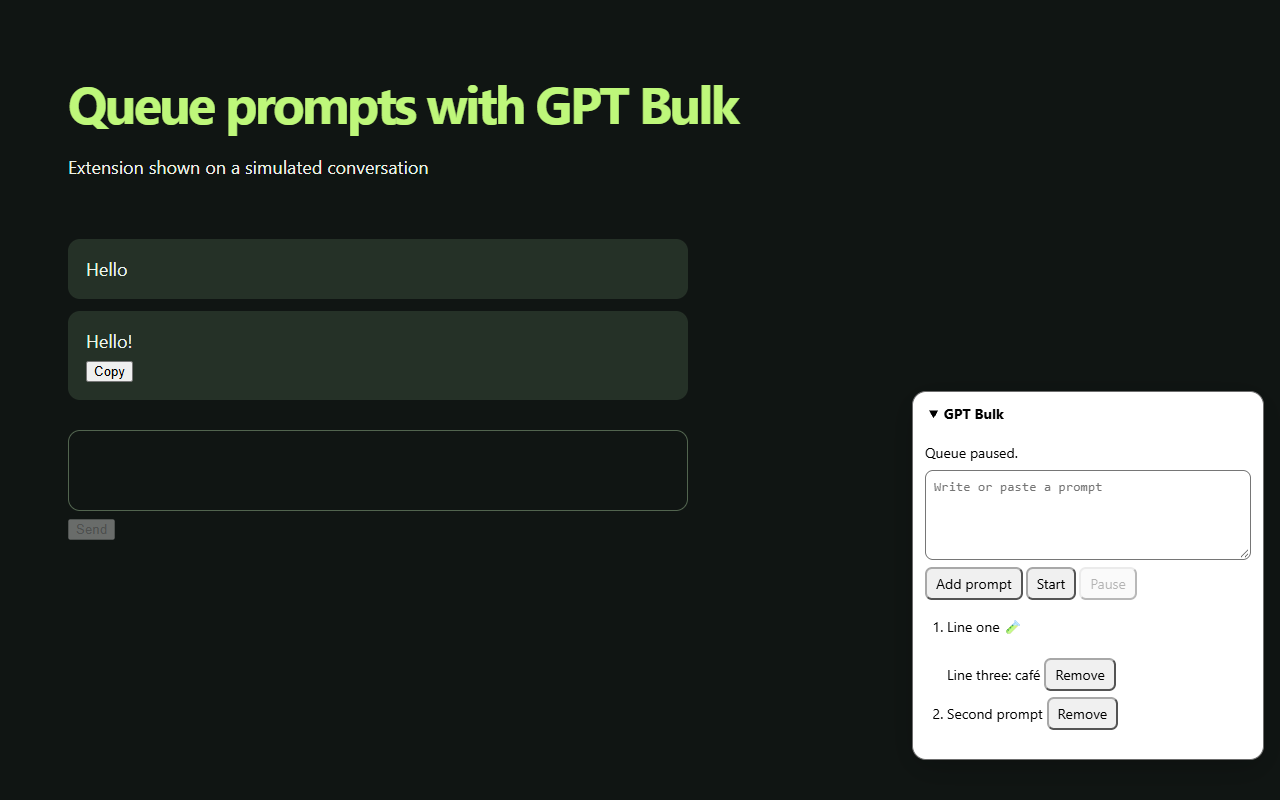
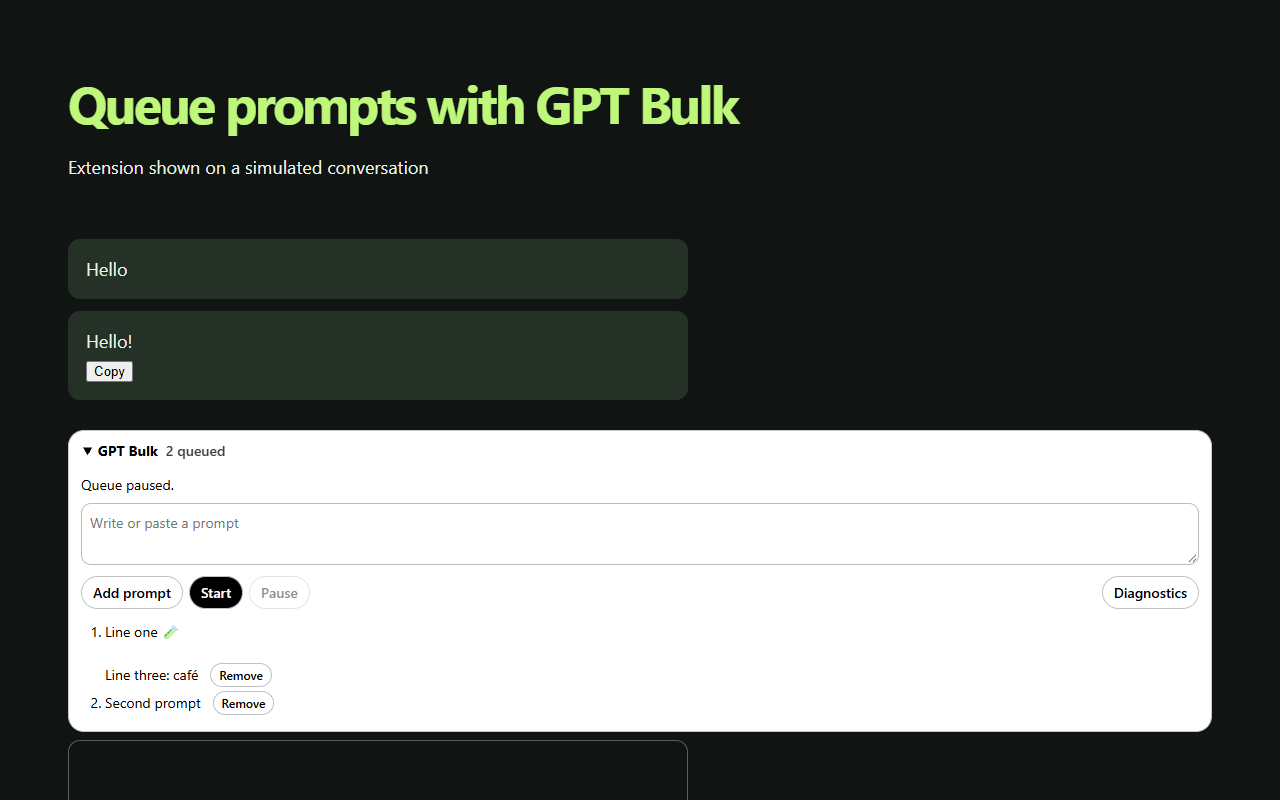
Dock GPT Bulk by the composer and recover unknown reply states

Changed region(s): [[0.0312, 0.4688, 1.0, 0.9688], [0.75, 0.7812, 0.7812, 0.8125]]

diff --git a/content.js b/content.js
@@ -76,8 +76,8 @@
     const attachments = form && (shown('[data-testid*="attachment-preview"], [data-testid*="file-preview"], button[aria-label^="Remove file"], button[aria-label^="Remove attachment"]', form).length ||
       [...form.querySelectorAll('input[type="file"]')].some(node => node.files?.length));
     return {
-      editor, send, user: user?.node, userId: user?.id, assistantId: turn && assistant.id,
-      replyText: finalActions ? assistant.node.textContent : "",
+      editor, form, send, user: user?.node, userId: user?.id, assistantId: turn && assistant.id,
+      replyText: turn ? assistant.node.textContent : "",
       done: Boolean(editor && form && user && finalActions && !busy && !problem),
       finalActions, turnCount: messages.length,
       waitingFor: !editor || !form ? "the ChatGPT message composer" :
@@ -90,28 +90,43 @@
   const panel = host.attachShadow({mode: "open"});
   panel.innerHTML = `
     <style>
-      :host{all:initial;position:fixed;right:16px;bottom:40px;z-index:2147483647;color-scheme:light dark;font:14px system-ui}
-      .queue-panel{width:min(350px,calc(100vw - 32px));background:Canvas;color:CanvasText;border:1px solid GrayText;border-radius:14px;box-shadow:0 8px 30px #0003}
-      .queue-panel:not([open]){width:max-content} summary{cursor:pointer;padding:12px 16px;font-weight:700}
-      section{padding:0 12px 12px} textarea{box-sizing:border-box;width:100%;min-height:90px;resize:vertical;border-radius:8px;padding:8px}
-      button{font:inherit;cursor:pointer;border-radius:7px;padding:5px 9px;margin:3px 3px 3px 0}
-      ol{padding-left:22px;max-height:190px;overflow:auto} li{white-space:pre-wrap;overflow-wrap:anywhere} p{margin:8px 0}
+      :host{all:initial;position:fixed;right:16px;bottom:40px;z-index:2147483647;color-scheme:light dark;font:14px/1.5 system-ui;color:CanvasText}
+      :host([data-inline]){position:relative;inset:auto;z-index:auto;display:block;width:100%;min-width:0;margin:0 0 8px}
+      .queue-panel{width:min(410px,calc(100vw - 32px));box-sizing:border-box;background:Canvas;border:1px solid color-mix(in srgb, CanvasText 22%, Canvas);border-radius:16px;box-shadow:0 8px 24px #0002}
+      :host([data-inline]) .queue-panel{width:100%;box-shadow:none}
+      .queue-panel:not([open]){width:max-content} summary{cursor:pointer;padding:9px 14px;font-weight:700}
+      #count{font-weight:500;opacity:.75;margin-left:8px} section{padding:0 12px 12px}
+      textarea{font:inherit;box-sizing:border-box;width:100%;min-height:62px;resize:vertical;border:1px solid color-mix(in srgb, CanvasText 26%, Canvas);border-radius:10px;padding:8px;background:Canvas;color:CanvasText}
+      button{font:inherit;font-weight:600;cursor:pointer;border:1px solid color-mix(in srgb, CanvasText 24%, Canvas);border-radius:999px;padding:5px 11px;background:Canvas;color:CanvasText}
+      button:disabled{opacity:.45;cursor:default} button:focus-visible,summary:focus-visible,textarea:focus-visible{outline:2px solid #538ce7;outline-offset:2px}
+      #start{background:CanvasText;color:Canvas} #confirm{margin:7px 0} #diagnostics{margin-left:auto}
+      .actions{display:flex;align-items:center;gap:6px;flex-wrap:wrap;margin:6px 0} ol{margin:8px 0 0;padding-left:24px;max-height:108px;overflow:auto}
+      li{white-space:pre-wrap;overflow-wrap:anywhere;margin:4px 0} li button{padding:2px 8px;margin-left:8px;font-size:12px}
+      p{margin:4px 0 8px} [hidden]{display:none!important}
     </style>
-    <details class="queue-panel"><summary>GPT Bulk</summary><section>
+    <details class="queue-panel"><summary><span>GPT Bulk</span><span id="count"></span></summary><section>
       <p id="status" role="status"></p>
       <textarea aria-label="Prompt to queue" placeholder="Write or paste a prompt"></textarea>
-      <div><button id="add">Add prompt</button><button id="start">Start</button><button id="pause">Pause</button></div>
+      <div class="actions"><button id="add">Add prompt</button><button id="start">Start</button><button id="pause">Pause</button><button id="diagnostics">Diagnostics</button></div>
+      <button id="confirm" hidden>I checked: ChatGPT finished</button>
       <div id="resolve" hidden><button id="sent">Remove sent prompt</button><button id="retry">Keep for retry</button></div>
       <ol></ol>
-      <details><summary>Troubleshooting</summary><button id="diagnostics">Show diagnostics</button>
-      <textarea id="report" aria-label="GPT Bulk diagnostics" readonly hidden></textarea></details>
+      <textarea id="report" aria-label="GPT Bulk diagnostics" readonly hidden></textarea>
     </section></details>`;
   document.body.append(host);
   const ui = id => panel.getElementById(id);
   const input = find("textarea", panel);
   const list = find("ol", panel);
   const instance = crypto.randomUUID();
-  let key, record, status, run, timer, serial = Promise.resolve();
+  let key, record, status, run, timer, renderedQueue, serial = Promise.resolve();
+
+  function mount() {
+    const editor = shown(editorSelector + ', :is(' + composerSelector + ') [contenteditable="true"]:is(.ProseMirror, [role="textbox"])');
+    const form = editor.length === 1 && (editor[0].closest(composerSelector) || editor[0].closest("form"));
+    if (form?.parentElement && host.nextElementSibling !== form) form.before(host);
+    if (!form && host.parentElement !== document.body) document.body.append(host);
+    host.toggleAttribute("data-inline", Boolean(form));
+  }
 
   const load = async id => (await api.storage.local.get(id))[id] ?? {queue: [], flight: null};
   const save = (id, state) => api.storage.local.set({[id]: state});
@@ -119,10 +134,15 @@
 
   function render() {
     ui("status").textContent = status;
+    ui("count").textContent = record?.queue.length ? record.queue.length + " queued" : "";
     ui("add").disabled = !record;
     ui("start").disabled = Boolean(run || !record?.queue.length || (record.flight && record.flight.owner !== instance));
     ui("pause").disabled = !run;
     ui("resolve").hidden = Boolean(run || !record?.flight);
+    ui("confirm").hidden = !run?.canConfirm;
+    const queueState = JSON.stringify([record?.flight?.id, (record?.queue ?? []).map(item => item.id)]);
+    if (queueState === renderedQueue) return;
+    renderedQueue = queueState;
     list.replaceChildren();
     for (const item of record?.queue ?? []) {
       const row = document.createElement("li");
@@ -190,8 +210,9 @@
     });
   }
 
+  const identityOf = snapshot => JSON.stringify([snapshot.userId, snapshot.assistantId, snapshot.replyText]);
   function settled(active, snapshot) {
-    const identity = JSON.stringify([snapshot.userId, snapshot.assistantId, snapshot.replyText]);
+    const identity = identityOf(snapshot);
     if (active.identity !== identity) {
       active.identity = identity;
       active.since = performance.now();
@@ -235,7 +256,16 @@
     record = state;
     const snapshot = page();
     const flight = state.flight;
+    active.canConfirm = false;
     if (snapshot.problem) return pause("ChatGPT needs attention. Check the conversation before resuming.");
+    if (snapshot.busy) active.confirmed = null;
+    const canProceed = candidate => candidate.done || Boolean(
+      active.confirmed && candidate.editor && candidate.form && !candidate.busy && !candidate.problem &&
+      active.confirmed === identityOf(candidate));
+    const offerConfirmation = () => {
+      active.canConfirm = Boolean(snapshot.editor && snapshot.form && !snapshot.busy);
+      if (active.canConfirm) status = "ChatGPT’s finish signal is unavailable. If the reply is complete, confirm below.";
+    };
     if (flight) {
       if (flight.owner !== instance) return pause("Resolve the previous send before continuing.");
       if (!flight.userId && snapshot.userId && snapshot.userId !== flight.previousUserId) {
@@ -249,12 +279,10 @@
       if (flight.userId && snapshot.userId !== flight.userId) return pause("The conversation changed while waiting for ChatGPT.");
       if (!flight.userId && Date.now() - flight.started > 45000) return pause("Could not confirm the send. Check whether the prompt appeared.");
       status = flight.userId ? "Waiting for ChatGPT to finish…" : "Confirming the send…";
-      if (!flight.userId || !snapshot.done) {
+      if (!flight.userId || !canProceed(snapshot)) {
         active.identity = null;
         if (snapshot.busy) active.lastBusy = Date.now();
-        else if (flight.userId && Date.now() - active.lastBusy > 45000) {
-          pause("Could not verify that ChatGPT finished the reply. Check the chat before continuing.");
-        }
+        else if (flight.userId) offerConfirmation();
         return;
       }
       if (!settled(active, snapshot)) return;
@@ -264,10 +292,11 @@
       return;
     }
     if (!state.queue.length) return pause("Queue complete.");
-    if (!snapshot.done) {
+    if (!canProceed(snapshot)) {
       active.identity = null;
       status = snapshot.busy ? "Waiting for ChatGPT to finish…" : "Waiting for " + snapshot.waitingFor + "…";
       if (snapshot.busy) active.lastBusy = Date.now();
+      else if (snapshot.editor && snapshot.form) offerConfirmation();
       else if (Date.now() - active.lastBusy > 45000) pause("Could not find " + snapshot.waitingFor + ". Refresh ChatGPT and resume.");
       return;
     }
@@ -276,7 +305,7 @@
     const item = state.queue[0];
     state.flight = {id: item.id, text: item.text, owner: instance, previousUserId: snapshot.userId, started: Date.now()};
     await save(id, state);
-    const ready = candidate => stillActive() && candidate.done && candidate.userId === snapshot.userId &&
+    const ready = candidate => stillActive() && canProceed(candidate) && candidate.userId === snapshot.userId &&
       candidate.assistantId === snapshot.assistantId && !candidate.attachments;
     const before = page();
     let issue = "ChatGPT changed before the draft could be prepared.";
@@ -293,6 +322,7 @@
           issue = draft === "" ? "ChatGPT did not accept the draft." : "The ChatGPT draft differs from the queued prompt.";
         } else if (after.send && !after.send.disabled && after.send.getAttribute("aria-disabled") !== "true") {
           active.identity = null;
+          active.confirmed = null;
           status = "Confirming the send…";
           after.send.click();
           return;
@@ -308,6 +338,7 @@
   }
 
   async function tick() {
+    mount();
     await sync();
     const active = run;
     if (!active?.release) return;
@@ -338,6 +369,16 @@
     }).catch(() => { if (run === active) pause("This browser could not start the queue safely."); });
   };
   ui("pause").onclick = () => pause("Queue paused. Any reply already underway can finish.");
+  ui("confirm").onclick = () => {
+    if (!run?.canConfirm || key !== keyForPage()) return;
+    const snapshot = page();
+    if (!snapshot.editor || !snapshot.form || snapshot.busy || snapshot.problem) return schedule();
+    run.confirmed = identityOf(snapshot);
+    run.canConfirm = false;
+    status = "Reply confirmed. Checking the composer…";
+    render();
+    schedule();
+  };
   ui("add").onclick = () => {
     const text = input.value;
     if (!text.trim()) return;
@@ -390,6 +431,7 @@
       replyActions: snapshot.finalActions, busy: Boolean(snapshot.busy), ready: snapshot.done,
       queued: record?.queue.length ?? 0
     }, null, 2);
+    report.focus();
     report.select();
   };
   api.storage.onChanged.addListener((changes, area) => {
@@ -401,7 +443,9 @@
     });
   });
   new MutationObserver(() => {
-    if ((run || key !== keyForPage()) && timer === undefined) schedule();
+    if (timer === undefined && (run || key !== keyForPage() || !host.isConnected || !host.nextElementSibling?.matches("form"))) {
+      schedule(100);
+    }
   }).observe(document.body, {
     subtree: true, childList: true, attributes: true,
     attributeFilter: ["aria-label", "aria-busy", "disabled", "data-is-streaming", "data-streaming"]

diff --git a/README.md b/README.md
@@ -4,7 +4,7 @@ Queue text prompts in a ChatGPT conversation and let them run in order while you
 
 [Product website and download](https://gptbulk-extension.vercel.app) · [Privacy policy](https://gptbulk-extension.vercel.app/privacy)
 
-Version 1.0.3 recognizes more of ChatGPT’s reply toolbars, including controls that appear on hover. If you already installed GPT Bulk, update the files in the same folder, select **Reload** in your browser’s extension manager, then refresh ChatGPT. If the queue still waits on a completed reply, open **Troubleshooting → Show diagnostics**. The report contains no conversation text, prompts, or conversation IDs.
+Version 1.0.4 places GPT Bulk above the ChatGPT composer. If you already installed GPT Bulk, update the files in the same folder, select **Reload** in your browser’s extension manager, then refresh ChatGPT. The **Diagnostics** button shows a report containing no conversation text, prompts, or conversation IDs.
 
 ## Install
 
@@ -23,9 +23,11 @@ For a temporary Firefox installation, open **about:debugging**, choose **This Fi
 ## Use the queue
 
 1. Open an existing conversation on **chatgpt.com**. In a new chat, send the first message manually to create the conversation.
-2. Open **GPT Bulk** in the lower right. Type or paste one prompt at a time and select **Add prompt**. Ctrl+Enter or Cmd+Enter also adds the prompt.
+2. Open **GPT Bulk** above the ChatGPT message box. Type or paste one prompt at a time and select **Add prompt**. Ctrl+Enter or Cmd+Enter also adds the prompt.
 3. Select **Start**. Keep the conversation tab open. You can switch tabs while the queue runs.
 4. If GPT Bulk pauses after an uncertain send, check the conversation. Use **Remove sent prompt** if the prompt appeared or **Keep for retry** if it did not. Check for leftover draft text before restarting.
+
+If GPT Bulk cannot confirm that a reply finished, it offers **I checked: ChatGPT finished**. Use this only after confirming the reply is complete. It applies to the current reply. The extension checks the next reply separately.
 
 Queues are stored locally by conversation. A reload or closed tab pauses processing. Chrome can suspend background tabs and a sleeping computer pauses execution. Prompts go through the ChatGPT website using your existing session and its usage limits. The extension uses no API key or external server.
 
